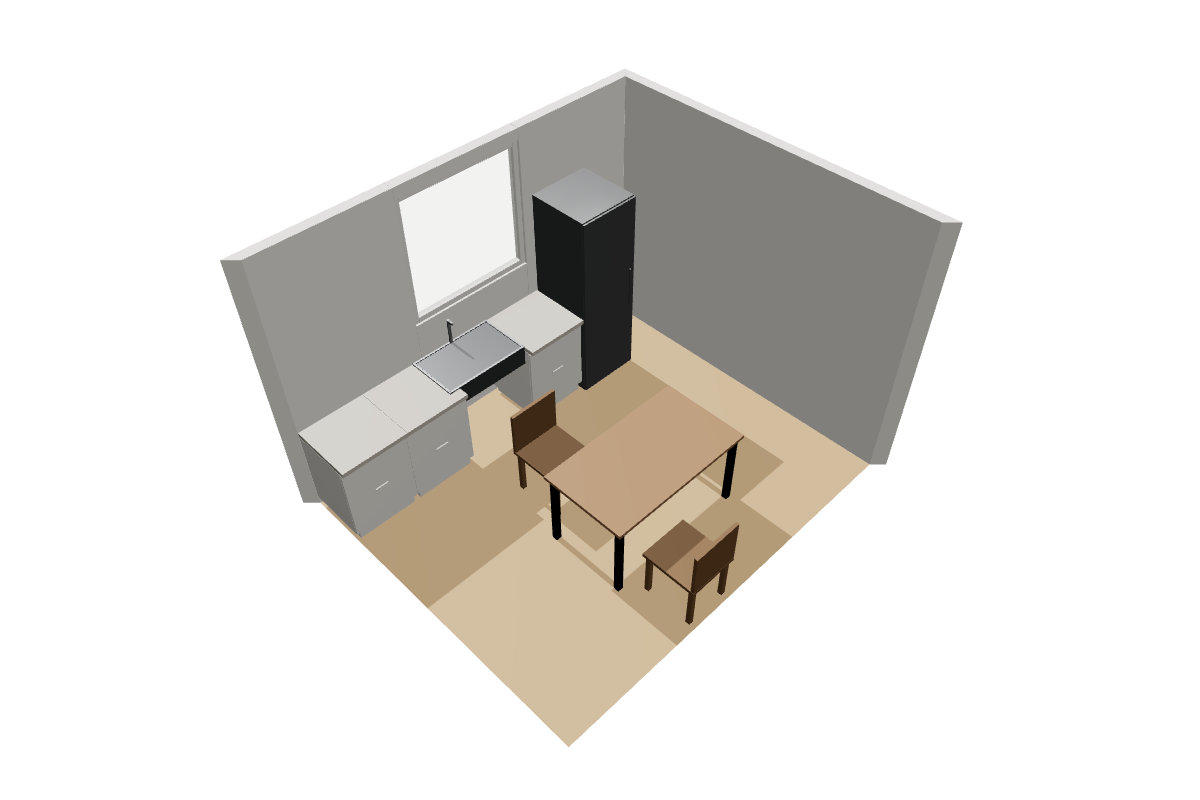
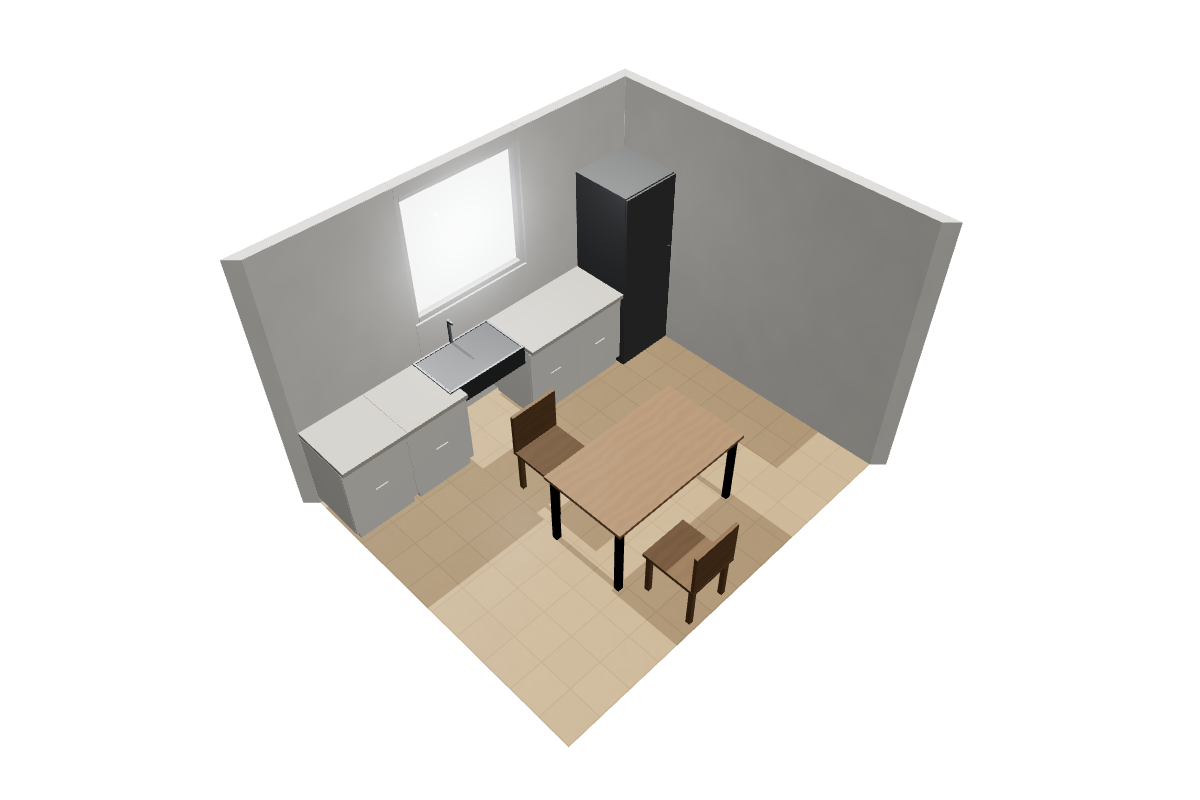
fix(web): ejemplos del inicio sin avisos
Cada mueble va pegado a la pared o a 60 cm o más de lo que tiene al lado:
cama y mesitas centradas y la cómoda abajo junto al armario (dormitorio),
estantería y sillón pegados a la pared (salón), y un módulo de 110 cm
hasta el frigorífico pegado a la pared (cocina). El test exige ahora cero
avisos además de cero errores. Imágenes regeneradas con «Descargar
imagen 3D» (ya con texturas). `mueble()` admite medidas propias.

Claude-Session: https://claude.ai/code/session_01JaRMzYRcRvhKeiBV5tQkon

Changed region(s): [[0.3083, 0.1562, 0.6783, 0.625]]

diff --git a/web/src/ejemplos/index.ts b/web/src/ejemplos/index.ts
@@ -12,16 +12,17 @@ export interface Ejemplo {
 
 // Paredes en sentido horario desde (0, 0): 0 arriba (izquierda → derecha), 1 derecha (arriba → abajo), 2 abajo
 // (derecha → izquierda), 3 izquierda (abajo → arriba). Las posiciones de puertas y ventanas se miden desde el inicio de
-// su pared. Los muebles van centrados y con el frente hacia abajo (giro 0) o hacia arriba (180).
+// su pared. Los muebles van centrados y con el frente hacia abajo (giro 0) o hacia arriba (180). Ningún ejemplo tiene
+// avisos: cada mueble va pegado a la pared o a 60 cm o más de lo que tiene al lado (`ejemplos.test.ts`).
 
-/** Dormitorio de 400 × 330: cama contra la pared de arriba con sus mesitas, armario abajo a la izquierda, cómoda y lámpara. */
+/** Dormitorio de 400 × 330: cama centrada contra la pared de arriba con sus mesitas, armario y cómoda abajo a la izquierda, y lámpara. */
 const dormitorio: DocumentoDiseno = estancia('dormitorio', 400, 330, {
   aberturas: [puerta('puerta', 2, 20), ventana('ventana', 1, 60)],
   elementos: [
-    mueble('cama', 'cama', 170, 100),
-    mueble('mesita', 'mesita-izquierda', 67, 20),
-    mueble('mesita', 'mesita-derecha', 273, 20),
-    mueble('comoda', 'comoda', 350, 25),
+    mueble('cama', 'cama', 200, 100),
+    mueble('mesita', 'mesita-izquierda', 97, 20),
+    mueble('mesita', 'mesita-derecha', 303, 20),
+    mueble('comoda', 'comoda', 170, 305, 180),
     mueble('armario', 'armario', 70, 300, 180),
     mueble('lampara-pie', 'lampara', 380, 200),
   ],
@@ -34,8 +35,8 @@ const salon: DocumentoDiseno = estancia('salon', 450, 380, {
     mueble('sofa', 'sofa', 225, 335, 180),
     mueble('mesa-centro', 'mesa-centro', 225, 220),
     mueble('mueble-tv', 'mueble-tv', 225, 20),
-    mueble('estanteria', 'estanteria', 60, 15),
-    mueble('sillon', 'sillon', 390, 300, 180),
+    mueble('estanteria', 'estanteria', 40, 15),
+    mueble('sillon', 'sillon', 390, 337.5, 180),
     mueble('lampara-pie', 'lampara', 400, 60),
     mueble('planta', 'planta', 30, 100),
   ],
@@ -48,8 +49,8 @@ const cocina: DocumentoDiseno = estancia('cocina', 360, 300, {
     mueble('modulo-bajo', 'modulo-1', 30, 30),
     mueble('modulo-bajo', 'modulo-2', 90, 30),
     mueble('fregadero', 'fregadero', 150, 25),
-    mueble('modulo-bajo', 'modulo-3', 220, 30),
-    mueble('frigorifico', 'frigorifico', 280, 33),
+    mueble('modulo-bajo', 'modulo-3', 245, 30, 0, { ancho: 110 }),
+    mueble('frigorifico', 'frigorifico', 330, 33),
     mueble('mesa', 'mesa', 180, 200),
     mueble('silla', 'silla-arriba', 150, 128),
     mueble('silla', 'silla-abajo', 150, 272, 180),

diff --git a/web/src/ejemplos/construir.ts b/web/src/ejemplos/construir.ts
@@ -1,10 +1,11 @@
 import { catalogoBase, documentoNuevo, elementoNuevo, type DocumentoDiseno, type Elemento, type Puerta, type TipoEstancia, type Ventana } from '../nucleo'
 
-/** Un mueble del catálogo con sus medidas por defecto, centrado en (x, y); giro 0 = frente hacia abajo (como al soltarlo). */
-export function mueble(tipo: string, id: string, x: number, y: number, rotacion = 0): Elemento {
+/** Un mueble del catálogo con sus medidas por defecto (o las que se den), centrado en (x, y); giro 0 = frente hacia abajo (como al soltarlo). */
+export function mueble(tipo: string, id: string, x: number, y: number, rotacion = 0, medidas: Partial<Elemento['medidas']> = {}): Elemento {
   const def = catalogoBase.get(tipo)
   if (!def) throw new Error(`El ejemplo usa un tipo que no existe: ${tipo}`)
-  return { ...elementoNuevo(def, { x, y }, id), rotacion }
+  const e = elementoNuevo(def, { x, y }, id)
+  return { ...e, rotacion, medidas: { ...e.medidas, ...medidas } }
 }
 
 /** Puerta abatible de 80 × 210 que abre hacia dentro; `posicion` desde el inicio de la pared (las paredes van en sentido horario). */

diff --git a/web/src/ejemplos/ejemplos.test.ts b/web/src/ejemplos/ejemplos.test.ts
@@ -23,9 +23,8 @@ describe('ejemplos del inicio', () => {
       expect(ejemplo.documento.aberturas.some((a) => a.tipo === 'ventana')).toBe(true)
       expect(ejemplo.documento.elementos.length).toBeGreaterThanOrEqual(5)
     })
-    it('no tiene errores: ni solapes ni nada que no abra (un paso estrecho se tolera)', () => {
-      const errores = detectarConflictos(ejemplo.documento, catalogoBase).filter((c) => c.gravedad === 'error')
-      expect(errores.map((c) => c.mensaje)).toEqual([])
+    it('no tiene ni errores ni avisos: es lo primero que ve quien llega, y «6 avisos» resta confianza', () => {
+      expect(detectarConflictos(ejemplo.documento, catalogoBase).map((c) => c.mensaje)).toEqual([])
     })
     it('su imagen existe en public', () => {
       expect(ejemplo.imagen).toMatch(/^\/ejemplos\/[a-z-]+\.(png|jpg|webp)$/)
